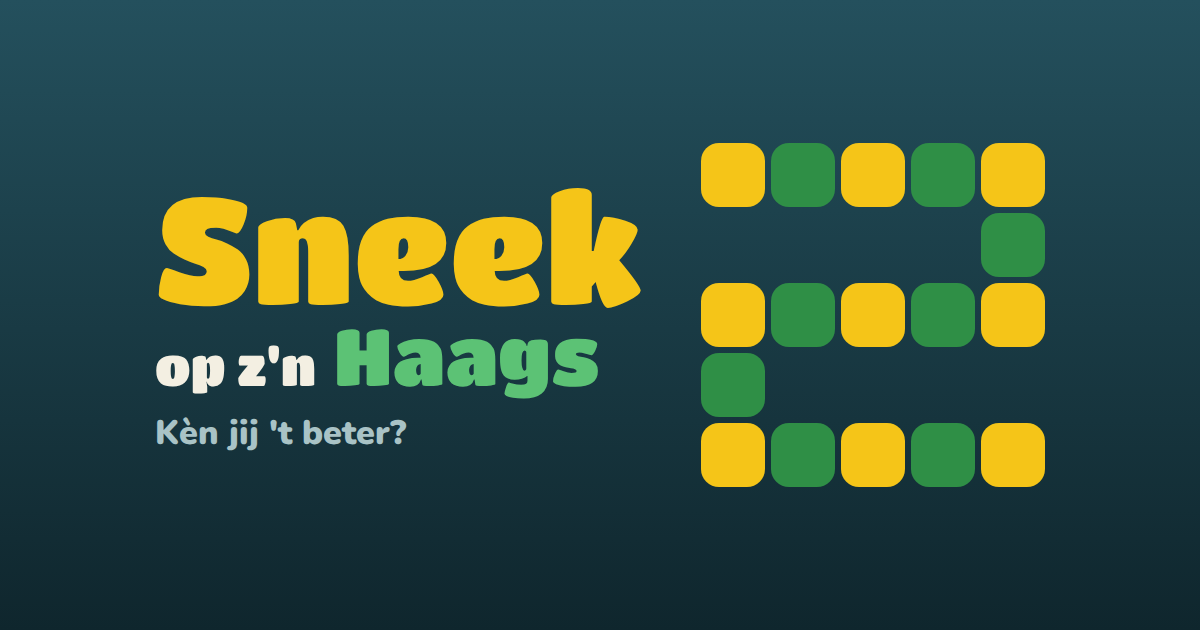
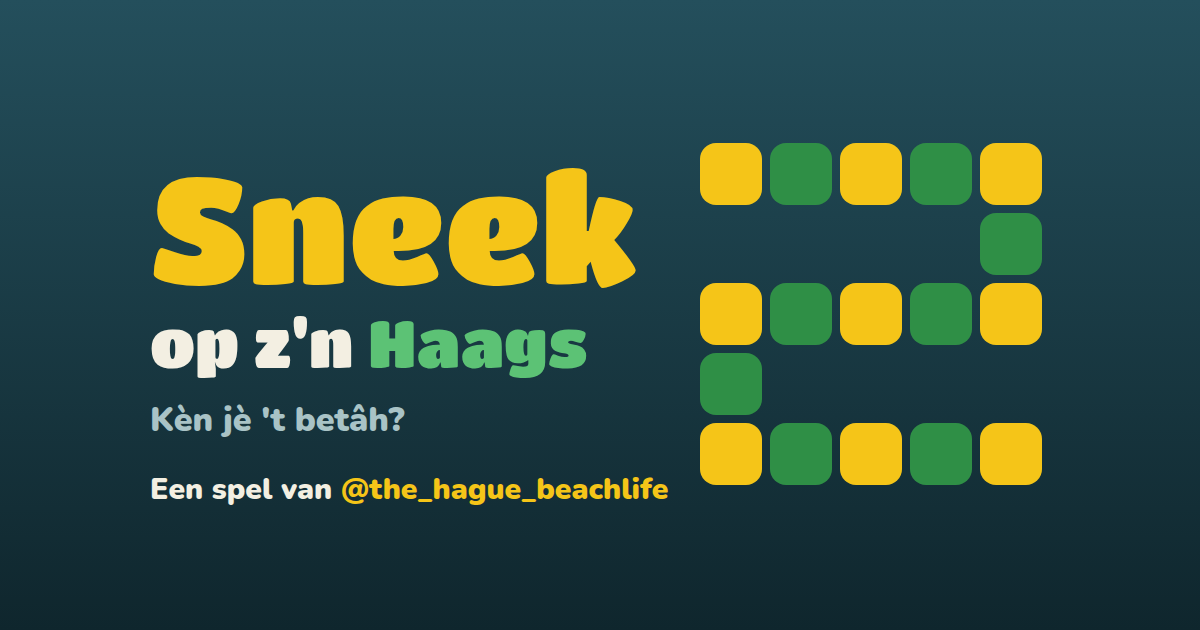
Naammerkje, deel-je-score storyplaatje, nieuwe link-preview

diff --git a/index.html b/index.html
@@ -6,8 +6,8 @@
 <title>Sneek op z'n Haags</title>
 <meta name="description" content="Snake op z'n Haags: vreet harinkies, kroketten en patatje oorlog en haal de hoogste scoâh.">
 <meta property="og:title" content="Sneek op z'n Haags">
-<meta property="og:description" content="Kèn jij 't beter? Vreet harinkies, ontwèk de meeuwe en kom in de Haagse Toppâhs.">
-<meta property="og:image" content="https://www.haagsesneek.nl/og.png">
+<meta property="og:description" content="Kèn jè 't betâh? Vreet harinkies, ontwèk de meeuwe en kom in de Haagse Toppâhs. Een spel van @the_hague_beachlife.">
+<meta property="og:image" content="https://www.haagsesneek.nl/og.png?v=2">
 <meta property="og:url" content="https://www.haagsesneek.nl/">
 <meta property="og:type" content="website">
 <meta name="theme-color" content="#16323b">
@@ -159,6 +159,8 @@
   .ovlijst ol.alles{max-height:min(52vh,420px);overflow-y:auto;overscroll-behavior:contain;padding-right:4px}
   .ovlijst .plek{font-weight:900;color:var(--tekst);max-width:none}
   .lijst li.puntjes{display:block;text-align:center;color:var(--zacht);background:none;padding:0}
+  /* Deelknop na game over */
+  .btn.deel{background:var(--groen);color:#fff;border-bottom-color:var(--groen-d)}
 </style>
 </head>
 <body>
@@ -200,6 +202,7 @@
         <ol id="ovOl"></ol>
       </section>
       <button class="btn stil" id="lijstBtn" type="button" hidden>Haagse Toppâhs bekèke</button>
+      <button class="btn deel" id="deelBtn" type="button" hidden>Deel je scoâh in je story</button>
       <button class="btn" id="startBtn">Beginne, joh!</button>
       <p class="maker" id="makerStart">Gemaakt doâh <a href="https://www.instagram.com/the_hague_beachlife/" target="_blank" rel="noopener">@the_hague_beachlife</a></p>
     </div>
@@ -486,6 +489,7 @@ const SUPABASE_KEY = 'sb_publishable_5jfRpWvEBOT3jN06Ajv9Ew_SvCJjU5o';
   }
 
   function sterf(hoe) {
+    deelBtn.hidden = true; deelFile = null; laatstePlek = 0;
     $('ovLijst').hidden = true; $('ovTekst').hidden = false; lijstBtn.hidden = true; $('makerStart').hidden = true; $('ovTitel').hidden = false;
     state = 'dood'; doodT = performance.now(); document.documentElement.classList.remove('speelt');
     hoe === 'muur' ? Geluid.plons() : Geluid.au();
@@ -499,6 +503,7 @@ const SUPABASE_KEY = 'sb_publishable_5jfRpWvEBOT3jN06Ajv9Ew_SvCJjU5o';
     $('startBtn').textContent = 'Nog een keâh!';
     if (LB && score > 0) { ingezonden = false; form.hidden = false; inp.value = mijnNaam; meld.textContent = ''; $('opslaanBtn').disabled = false;
       if (matchMedia('(pointer:fine)').matches) setTimeout(() => inp.focus(), 150); }
+    else if (score > 0) toonDeel();   // geen scorelèst: meteen de deelknop
     ov.hidden = false;
   }
   // ---------- Highscorelèst ----------
@@ -573,6 +578,7 @@ const SUPABASE_KEY = 'sb_publishable_5jfRpWvEBOT3jN06Ajv9Ew_SvCJjU5o';
       const lijst = await haalLijst();
       const mijn = tekenLijst($('ovOl'), lijst, 5);  // top 5 + jouw plek, zodat alles op een telefoonscherm past
       const n = mijn + 1, beste = mijn >= 0 ? lijst[mijn].score : score;
+      laatstePlek = (mijn >= 0 && lijst[mijn].score === score) ? n : 0;
       plek.textContent = n === 1 ? 'Nummâh 1! Jè ben de baas van Den Haag!'
         : n > 0 && n <= 3 ? `Plek ${n}! Op het podium, âhwe!`
         : n > 0 ? `Je staat op plek ${n} van de ${lijst.length}.` : 'Je staat erop!';
@@ -580,10 +586,86 @@ const SUPABASE_KEY = 'sb_publishable_5jfRpWvEBOT3jN06Ajv9Ew_SvCJjU5o';
     } catch (e) { plek.textContent = 'Opgeslagen! Alleen de lèst kon niet geladen worden.'; }
   }
 
+  // ---------- Deel je scoâh: storyplaatje (1080x1920) in de huisstijl ----------
+  const deelBtn = $('deelBtn');
+  let deelFile = null, deelKlaar = null, laatstePlek = 0;
+  function toonDeel() { deelBtn.hidden = false; deelBtn.disabled = false; deelBtn.textContent = 'Deel je scoâh in je story'; deelKlaar = maakPlaatje(); }
+
+  async function maakPlaatje() {
+    const W = 1080, H = 1920, c = document.createElement('canvas'); c.width = W; c.height = H;
+    const g = c.getContext('2d');
+    try { await Promise.all([document.fonts.load('100px "Titan One"'), document.fonts.load('900 40px Nunito')]); } catch (e) {}
+    const foto = new Image(); foto.src = 'skyline.jpg';
+    try { await foto.decode(); } catch (e) {}
+    // achtergrond: eigen skyline-foto bovenin, zee-donker eronder
+    g.fillStyle = '#0f262d'; g.fillRect(0, 0, W, H);
+    if (foto.naturalWidth) {
+      const fh = W * foto.naturalHeight / foto.naturalWidth;
+      g.drawImage(foto, 0, 0, W, fh);
+      const v = g.createLinearGradient(0, fh * .55, 0, fh); v.addColorStop(0, 'rgba(15,38,45,0)'); v.addColorStop(1, '#0f262d');
+      g.fillStyle = v; g.fillRect(0, 0, W, fh + 2);
+    }
+    const tekst = (t, x, y, font, kleur, rand) => {
+      g.font = font; g.textAlign = 'center'; g.textBaseline = 'alphabetic';
+      if (rand) { g.lineWidth = rand; g.strokeStyle = '#0f262d'; g.lineJoin = 'round'; g.strokeText(t, x, y); }
+      g.fillStyle = kleur; g.fillText(t, x, y);
+    };
+    // titel over de lucht
+    tekst('Sneek', W/2, 330, '170px "Titan One"', '#f5c518', 22);
+    g.font = '84px "Titan One"'; const a = g.measureText("op z'n "), b = g.measureText('Haags'), x0 = W/2 - (a.width + b.width)/2;
+    g.textAlign = 'left'; g.lineWidth = 16; g.strokeStyle = '#0f262d'; g.lineJoin = 'round';
+    g.strokeText("op z'n ", x0, 430); g.fillStyle = '#f3efe2'; g.fillText("op z'n ", x0, 430);
+    g.strokeText('Haags', x0 + a.width, 430); g.fillStyle = '#5cc275'; g.fillText('Haags', x0 + a.width, 430);
+    // score op een donker vlak, zodat het leesbaar blijft op de foto
+    g.fillStyle = 'rgba(15,38,45,.8)'; g.beginPath(); g.roundRect(110, 630, W - 220, 660, 48); g.fill();
+    g.lineWidth = 6; g.strokeStyle = '#f5c518'; g.stroke();
+    // score
+    tekst('MÈN SCOÂH', W/2, 730, '900 46px Nunito', '#a9c3c6');
+    tekst(String(score), W/2, 960, '280px "Titan One"', '#f3efe2');
+    tekst(score === 1 ? 'punt' : 'punte', W/2, 1040, '900 52px Nunito', '#a9c3c6');
+    let y = 1130;
+    if (ingezonden && mijnNaam) { tekst('@' + mijnNaam, W/2, y, '900 58px Nunito', '#f3efe2'); y += 50; }
+    if (laatstePlek) {
+      const t = laatstePlek === 1 ? 'Nummâh 1 van Den Haag!' : `Plek ${laatstePlek} in de Haagse Toppâhs`;
+      g.font = '900 44px Nunito'; const w = g.measureText(t).width + 80;
+      g.fillStyle = '#1f6a32'; g.beginPath(); g.roundRect(W/2 - w/2, y + 8, w, 84, 42); g.fill();
+      g.fillStyle = '#2f8f46'; g.beginPath(); g.roundRect(W/2 - w/2, y, w, 84, 42); g.fill();
+      tekst(t, W/2, y + 57, '900 44px Nunito', '#fff');
+    }
+    // slangetje als versiering
+    const blok = 48, gat = 10, n = 7, bx = W/2 - (n*blok + (n-1)*gat)/2;
+    for (let i = 0; i < n; i++) { g.fillStyle = i % 2 ? '#f5c518' : '#2f8f46'; g.beginPath(); g.roundRect(bx + i*(blok+gat), 1322, blok, blok, 13); g.fill(); }
+    tekst("Kèn jè 't betâh?", W/2, 1500, '96px "Titan One"', '#f5c518');
+    tekst('Speel zelf op haagsesneek.nl', W/2, 1580, '900 50px Nunito', '#f3efe2');
+    // maker: groot en duidelijk
+    tekst('Gemaakt doâh', W/2, 1665, '900 40px Nunito', '#a9c3c6');
+    tekst('@the_hague_beachlife', W/2, 1745, '76px "Titan One"', '#f5c518');
+    const blob = await new Promise(r => c.toBlob(r, 'image/jpeg', .92));
+    deelFile = new File([blob], 'sneek-scoah.jpg', {type: 'image/jpeg'});
+    return deelFile;
+  }
+
+  deelBtn.addEventListener('click', async e => {
+    e.stopPropagation();
+    const f = deelFile || await deelKlaar;
+    if (!f) return;
+    if (navigator.canShare && navigator.canShare({files: [f]})) {
+      // telefoon: deelmenu openen, daar kies je Instagram > Verhaal
+      try { await navigator.share({files: [f]}); } catch (err) { if (err.name !== 'AbortError') bewaar(f); }
+    } else bewaar(f);
+  });
+  function bewaar(f) {
+    // computer (of oudere telefoon): plaatje downloaden
+    const a = document.createElement('a'); a.href = URL.createObjectURL(f); a.download = f.name;
+    document.body.appendChild(a); a.click(); a.remove(); setTimeout(() => URL.revokeObjectURL(a.href), 5000);
+    deelBtn.textContent = 'Plaatje opgeslage! Zet \'m in je story';
+  }
+
   form.addEventListener('click', e => e.stopPropagation());
   // Overslaan: niks opslaan, gewoon door
   $('overslaanBtn').addEventListener('click', () => {
     form.hidden = true; $('ovTekst').hidden = false; $('ovTekst').textContent = 'Prima, je scoâh is niet opgeslage. Nog een potje?';
+    toonDeel();
     $('startBtn').focus();
   });
   // Geluidsknop
@@ -614,6 +696,7 @@ const SUPABASE_KEY = 'sb_publishable_5jfRpWvEBOT3jN06Ajv9Ew_SvCJjU5o';
       meld.textContent = '';
       form.hidden = true;
       await toonMijnPlek();
+      toonDeel();
       laadLijst();
     } catch (err) { meld.textContent = 'Opslaan lukte niet. Probeâh het nog een keâh.'; $('opslaanBtn').disabled = false; }
   });
@@ -623,13 +706,14 @@ const SUPABASE_KEY = 'sb_publishable_5jfRpWvEBOT3jN06Ajv9Ew_SvCJjU5o';
   function magOpnieuw() { return form.hidden && $('ovLijst').hidden && performance.now() - doodT > 900; }
 
   function begin() {
+    deelBtn.hidden = true;
     form.hidden = true; $('ovLijst').hidden = true; $('ovTekst').hidden = false; lijstBtn.hidden = true; $('ovTitel').hidden = false;
     scrollTo(0, 0); document.documentElement.classList.add('speelt');
     Geluid.init(); laatsteTempo = '';
     reset(); state = 'spel'; ov.hidden = true; lastStep = performance.now();
   }
   function pauze() {
-    if (state === 'spel') { state = 'pauze'; $('ovTitel').textContent = 'Effe pâhze'; $('ovTekst').textContent = 'Bakkie koffie halen? Druk op spatie om verdâh te gaan.'; $('bigScore').hidden = true; $('startKop').hidden = true; $('slangetje').hidden = true; ov.classList.remove('start'); form.hidden = true; $('ovLijst').hidden = true; $('startBtn').textContent = 'Verdâh!'; ov.hidden = false; }
+    if (state === 'spel') { state = 'pauze'; deelBtn.hidden = true; $('ovTitel').textContent = 'Effe pâhze'; $('ovTekst').textContent = 'Bakkie koffie halen? Druk op spatie om verdâh te gaan.'; $('bigScore').hidden = true; $('startKop').hidden = true; $('slangetje').hidden = true; ov.classList.remove('start'); form.hidden = true; $('ovLijst').hidden = true; $('startBtn').textContent = 'Verdâh!'; ov.hidden = false; }
     else if (state === 'pauze') { state = 'spel'; ov.hidden = true; lastStep = performance.now(); }
   }
 
@@ -712,6 +796,9 @@ const SUPABASE_KEY = 'sb_publishable_5jfRpWvEBOT3jN06Ajv9Ew_SvCJjU5o';
   }
   function teken(t) {
     tekenVeld();
+    // Naammerkje rechtsonder op het speelveld: gaat mee op elke screenshot of schermopname
+    ctx.save(); ctx.font = '900 17px Nunito, sans-serif'; ctx.textAlign = 'right'; ctx.textBaseline = 'bottom';
+    ctx.fillStyle = 'rgba(15,38,45,.38)'; ctx.fillText('Sneek doâh @the_hague_beachlife', C.width - 10, C.height - 8); ctx.restore();
     if (food) { const cx=(food.x+.5)*S, cy=(food.y+.5)*S; ({haring:tekenHaring,kroket:tekenKroket,patat:tekenPatat})[food.soort](cx,cy); }
     if (bonus && (bonus.leeft > 12 || Math.floor(t/150)%2)) tekenBluf((bonus.x+.5)*S,(bonus.y+.5)*S,t);
     tekenSlang(t);
